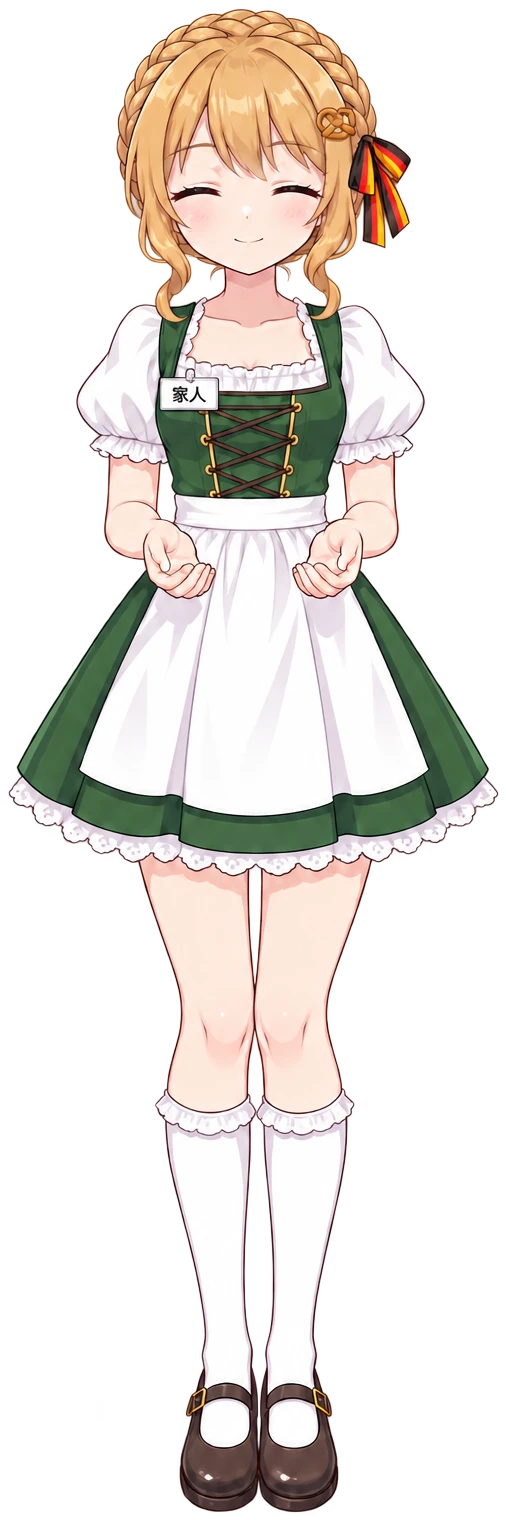
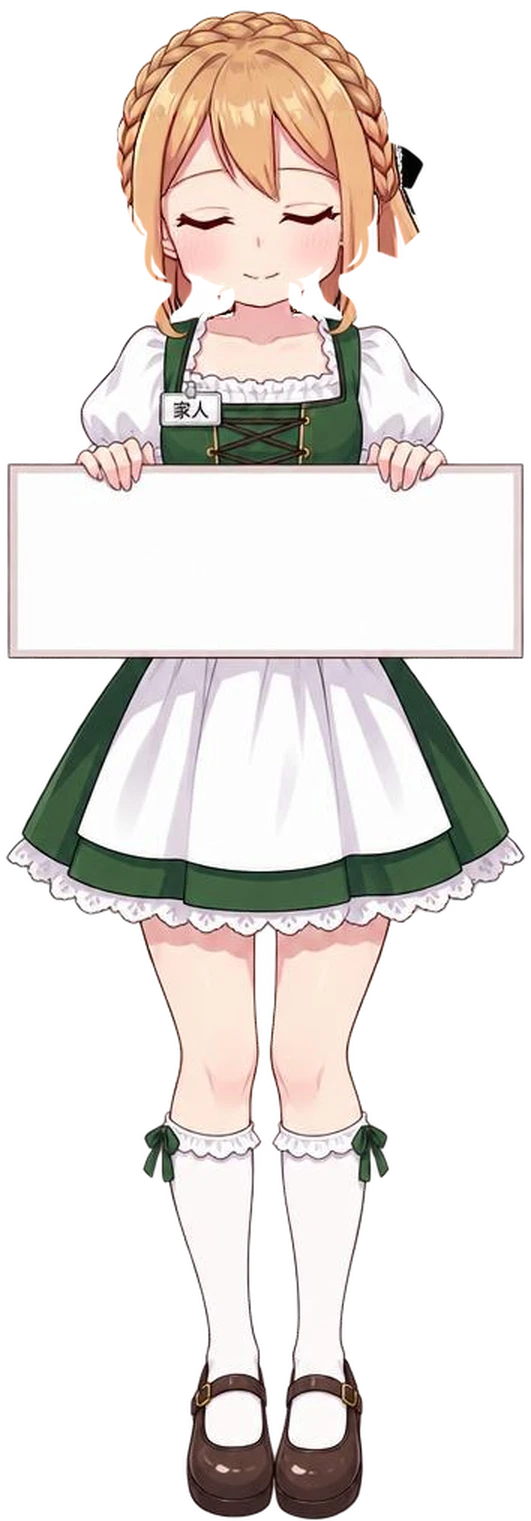
二次元皮肤：牌子画进立绘（回到贴图），节点名印在牌面上
上一版的节点名挂在一条 UI 画的卷轴纸带上（62px 高、通铺整卡），复核判定读不成
「拿在手里」：实测她的双手只有 102px 宽，纸带是手的 3.5 倍宽、2 倍厚，观感是横贴
在腰上的一根纸。Live2D 预研（编辑器只有 Win/macOS、素材要拆 200+ 层、四套模型
128MB 显存）代价过大，用户定「回到贴图」。

- 立绘换成「她双手捧着空白牌子」那版，牌子是画在贴图里的：节点名只是印在牌面上的字
- 牌面矩形逐台实测（--cast-plate-l/t/w/h）+ 立绘在卡上的宽（--cast-art-w）
- 摊开态裁在牌子下沿（--cast-cut）；--cast-hand 与 .anime-hands 整层删掉
- 闭眼帧改用带蒙版的 inpaint（flux-pro/v1/fill）：gpt-image edit 会整帧重画，
  四台全对不齐（差异 117-166%）；蒙版内补后差异 5-9% 且只在眼睛那一段
- anime_cast_test 守牌面矩形每台一条 + 不许再出现纸面背景；ui-smoke 六处断言重写

diff --git a/web/anime.css b/web/anime.css
@@ -576,11 +576,14 @@ html[data-skin="anime"][data-theme="dark"] ::-webkit-scrollbar-thumb {
    app.js 只为「有 cast 的节点」渲染 <div class="anime-stage" data-cast="…">，
    其余皮肤下它保持 styles.css 里的 display:none。
 
-   立绘是 GPT Image 2.5 出的**透明底全身像**（人物 + 透明背景，没有那块牌子），
+   立绘是 GPT Image 2.5 出的**透明底全身像，手里捧着一块空白牌子**（2026-10-09 起）。
    按高度缩放成 --cast-figure-h（720px）、顶部对齐。于是：
-   - 展开时立绘层只露出「头顶 → 她两只手停的那一行」——牌子就是卡片自己，数据写在牌面上；
-   - 卷起来时立绘层放到 720px 全身（见 N+3），她整个人都在卡上，卷轴压在她手那条线上。
-   透明底是关键：她没有矩形图框，卡片自己的底色 / 纹样就是她的背景，这才谈得上「融入」。
+   - 展开时立绘层只露出「头顶 → 那块牌子的下沿」（--cast-cut），牌面下方直接接数据面板；
+   - 卷起来时立绘层放到 720px 全身（见 N+3），她整个人都在卡上，节点名**印在她手里那块牌子上**
+     （牌面位置逐台实测，见 --cast-plate-*）。
+   牌子画进图里是关键：卷轴那条 UI 纸带曾经横贴在她腰上（356px 的纸带 vs 102px 的双手），
+   怎么调都读不成「拿在手里」；换成贴图里她自己捧着，就不需要再骗眼睛。
+   透明底同样关键：她没有矩形图框，卡片自己的底色 / 纹样就是她的背景，这才谈得上「融入」。
    -------------------------------------------------------------------------- */
 html[data-skin="anime"] .anime-stage {
   display: block;
@@ -590,7 +593,8 @@ html[data-skin="anime"] .anime-stage {
   z-index: 1;
   /* 卡片自己有 22px 内边距，立绘层要通铺到卡片边（圆角交给卡片的 overflow:hidden 裁） */
   margin: -22px -22px 16px;
-  height: calc(var(--cast-figure-h, 720px) * var(--cast-hand, 0.56));
+  /* 摊开时只露「头顶 → 她手里那块牌子的下沿」：再往下就是卡片自己的数据面板 */
+  height: calc(var(--cast-figure-h, 720px) * var(--cast-cut, 0.44));
   overflow: hidden;   /* 展开时把「手以下」那半身裁掉；眨眼层也是靠这个裁（它是全高） */
   background-image: var(--cast-art-url);
   background-repeat: no-repeat;
@@ -683,9 +687,14 @@ html[data-skin="anime"] .node-card[data-cast] {
 html[data-skin="anime"] .node-card[data-cast="jp-nosla-gen2"] {
   --cast-art-url: url("/anime/jp-nosla-gen2.webp");   /* 立绘与「下半身」共用同一张图 */
   --cast-figure-h: 720px;   /* 全身立绘按高度缩放：她的头到脚 = 720px，卡片宽 358，所以两侧留白是她自己「漂」在卡上的 */
-  --cast-hand: 0.42;   /* 她的手停在这一行（逐年对照定相截图挑出来的）*/
-  --cast-eye-top: 9.9%;
-  --cast-eye-bottom: 18.8%;
+  --cast-art-w: calc(var(--cast-figure-h, 720px) * 0.3824);   /* 立绘在卡上的宽度 = 高度 × 图宽高比 */
+  --cast-plate-l: 0.018;   /* 她手里那块牌子在立绘框里的位置（逐台实测：像素扫描 + 目视复核） */
+  --cast-plate-t: 0.318;
+  --cast-plate-w: 0.967;
+  --cast-plate-h: 0.122;
+  --cast-cut: 0.439;   /* 摊开时立绘露到牌子的下沿，再往下就是数据面板 */
+  --cast-eye-top: 6.4%;
+  --cast-eye-bottom: 22.6%;
   --cast-board: #ffe7f1;
   --cast-cell: rgb(255 255 255 / 0.58);
   --cast-line: #f6b1cc;
@@ -704,9 +713,14 @@ html[data-skin="anime"] .node-card[data-cast="jp-nosla-gen2"] {
 html[data-skin="anime"] .node-card[data-cast="de-nosla-fra"] {
   --cast-art-url: url("/anime/de-nosla-fra.webp");   /* 立绘与「下半身」共用同一张图 */
   --cast-figure-h: 720px;   /* 全身立绘按高度缩放：她的头到脚 = 720px，卡片宽 358，所以两侧留白是她自己「漂」在卡上的 */
-  --cast-hand: 0.41;   /* 她的手停在这一行（逐年对照定相截图挑出来的）*/
-  --cast-eye-top: 8.2%;
-  --cast-eye-bottom: 17.1%;
+  --cast-art-w: calc(var(--cast-figure-h, 720px) * 0.3491);   /* 立绘在卡上的宽度 = 高度 × 图宽高比 */
+  --cast-plate-l: 0.02;   /* 她手里那块牌子在立绘框里的位置（逐台实测：像素扫描 + 目视复核） */
+  --cast-plate-t: 0.321;
+  --cast-plate-w: 0.96;
+  --cast-plate-h: 0.107;
+  --cast-cut: 0.428;   /* 摊开时立绘露到牌子的下沿，再往下就是数据面板 */
+  --cast-eye-top: 6.6%;
+  --cast-eye-bottom: 22.8%;
   --cast-board: #fff5e0;
   --cast-cell: rgb(255 255 255 / 0.56);
   --cast-line: #e7cd90;
@@ -725,9 +739,14 @@ html[data-skin="anime"] .node-card[data-cast="de-nosla-fra"] {
 html[data-skin="anime"] .node-card[data-cast="us-vmiss-tri"] {
   --cast-art-url: url("/anime/us-vmiss-tri.webp");   /* 立绘与「下半身」共用同一张图 */
   --cast-figure-h: 720px;   /* 全身立绘按高度缩放：她的头到脚 = 720px，卡片宽 358，所以两侧留白是她自己「漂」在卡上的 */
-  --cast-hand: 0.40;   /* 她的手停在这一行（逐年对照定相截图挑出来的）*/
-  --cast-eye-top: 7.2%;
-  --cast-eye-bottom: 16.2%;
+  --cast-art-w: calc(var(--cast-figure-h, 720px) * 0.3621);   /* 立绘在卡上的宽度 = 高度 × 图宽高比 */
+  --cast-plate-l: 0.041;   /* 她手里那块牌子在立绘框里的位置（逐台实测：像素扫描 + 目视复核） */
+  --cast-plate-t: 0.307;
+  --cast-plate-w: 0.94;
+  --cast-plate-h: 0.134;
+  --cast-cut: 0.44;   /* 摊开时立绘露到牌子的下沿，再往下就是数据面板 */
+  --cast-eye-top: 6.6%;
+  --cast-eye-bottom: 23.0%;
   --cast-board: #e9f2ff;
   --cast-cell: rgb(255 255 255 / 0.58);
   --cast-line: #aec9ff;
@@ -746,9 +765,14 @@ html[data-skin="anime"] .node-card[data-cast="us-vmiss-tri"] {
 html[data-skin="anime"] .node-card[data-cast="us-bwh-dc9"] {
   --cast-art-url: url("/anime/us-bwh-dc9.webp");   /* 立绘与「下半身」共用同一张图 */
   --cast-figure-h: 720px;   /* 全身立绘按高度缩放：她的头到脚 = 720px，卡片宽 358，所以两侧留白是她自己「漂」在卡上的 */
-  --cast-hand: 0.39;   /* 她的手停在这一行（逐年对照定相截图挑出来的）*/
-  --cast-eye-top: 23.1%;
-  --cast-eye-bottom: 32%;
+  --cast-art-w: calc(var(--cast-figure-h, 720px) * 0.3555);   /* 立绘在卡上的宽度 = 高度 × 图宽高比 */
+  --cast-plate-l: 0.016;   /* 她手里那块牌子（画在贴图里的）在立绘框里的位置，逐台实测 */
+  --cast-plate-t: 0.319;
+  --cast-plate-w: 0.967;
+  --cast-plate-h: 0.112;
+  --cast-cut: 0.432;   /* 摊开时立绘露到牌子的下沿，再往下就是数据面板 */
+  --cast-eye-top: 6.2%;
+  --cast-eye-bottom: 22.3%;
   --cast-board: #fff3dc;
   --cast-cell: rgb(255 255 255 / 0.56);
   --cast-line: #e9c684;
@@ -824,7 +848,7 @@ html[data-skin="anime"][data-theme="dark"] .anime-stage[data-cast="us-bwh-dc9"] 
 
    - 收起状态是**卡壳**上的 data-rolled（app.js 的 applyFolded 维护），不是重绘出来的内容：
      每秒轻刷新与 10 秒全量刷新都走补丁路径、卡壳上的属性不会被擦掉，所以卷起来之后不会自己摊开。
-   - 展开：立绘层 = 头顶 → 她的手那一行（--cast-hand），下面接数据面板（面板上沿就是她手那条线）。
+   - 展开：立绘层 = 头顶 → 她手里那块牌子的下沿（--cast-cut），下面接数据面板。
    - 收起：立绘层放到 --cast-figure-h 全身，**卷轴**绝对定位压在她手那条线上（一根她拿着的卷），
      数据整块藏起来。卷轴的 z-index 比立绘**高**：轴心正对着她的躯干，压在下面的话节点名会被她
      整个挡住（线上实测轴上只剩空白），「轴上印节点名」就没了。卷轴比她的身子窄（卡宽的 62%），两端是纸卷的收口 —— 一根拿在手里的卷，
@@ -878,68 +902,34 @@ html[data-skin="anime"] .anime-blink {
 /* 摊开时卷轴不出现 */
 html[data-skin="anime"] .anime-roll { display: none; }
 
-/* 卷轴本体：她手里那根卷。绝对定位压在手线上、通铺整卡，两端被卡片裁掉。 */
-html[data-skin="anime"] .anime-roll {
-  position: absolute; left: 0; right: 0; z-index: 2;
-  top: calc(var(--cast-figure-h, 720px) * var(--cast-hand, 0.45) - 8px);
-  width: auto; height: 62px; padding: 0; border: 0;
-  /* 通铺到卡片的边框内侧（绝对定位的包含块就是卡片的 padding box）：两端被卡片的
-     overflow:hidden 裁掉——卷纸**没有端面**，所以不会出现「假盖子 / 假圆盘」那一版的问题。
-     这里不能再加负 margin：越过卡片边框盒就会被 scripts/card-overflow-check.mjs 判成真被切掉。 */
-  display: flex; align-items: center; justify-content: center;
+/* 牌子那一层（收起态）：牌子本身是**画在立绘贴图里的**（她双手捧着），
+   所以这一层只剩「印在牌面上的字」，没有任何纸带、阴影、卷边。
+   铺满整卡靠 -22px 抵消卡片内边距，跟 .anime-stage 的负 margin 对齐；牌子上的字再按
+   每台实测的牌面矩形（--cast-plate-*）落到她那块牌子上。 */
+html[data-skin="anime"] .node-card[data-rolled="true"] .anime-roll {
+  position: absolute; left: -22px; right: -22px; top: -22px;
+  height: var(--cast-figure-h, 720px);
+  z-index: 2; padding: 0; border: 0; background: none;
   opacity: var(--anime-roll-alpha, 1);
-  cursor: pointer; color: color-mix(in srgb, var(--cast-accent) 62%, #2a2733); background: none;
+  cursor: pointer; color: color-mix(in srgb, var(--cast-accent) 58%, #2a2733);
 }
-html[data-skin="anime"] .anime-roll-label {
-  /* 名字压在轴的**下半条**：她的手（.anime-hands 那层）盖在轴的上半条上，
-     名字留在下面才不会被她的手挡住（居中就会被她的手整块盖掉）。 */
-  position: relative; flex: 1 1 auto; min-width: 0; height: 62px; padding-bottom: 9px;
-  display: inline-flex; align-items: flex-end; justify-content: center; gap: 8px;
-  background-image:
-    repeating-linear-gradient(100deg, rgb(86 74 48 / 0.055) 0 1.3px, transparent 1.3px 21px),
-    radial-gradient(22% 200% at 0% 50%, rgb(74 64 44 / 0.4), transparent 100%),
-    radial-gradient(22% 200% at 100% 50%, rgb(74 64 44 / 0.4), transparent 100%),
-    linear-gradient(
-      180deg,
-      #c9c3b5 0%,
-      #e9e4d8 7%,
-      #fdfbf5 20%,
-      #fffefa 34%,
-      #faf7ee 52%,
-      #f3efe4 68%,
-      #e9e4d8 86%,
-      #d8d2c4 96%,
-      #c9c3b5 100%
-    );
-  box-shadow: inset 0 5px 7px -4px rgb(28 24 42 / 0.5), inset 0 -6px 8px -4px rgb(28 24 42 / 0.4),
-    inset 0 -2px 0 -1px rgb(255 255 255 / 0.5), 0 2px 6px rgb(28 24 42 / 0.22);
-}
-/* 她的手压在纸上的投影 */
-html[data-skin="anime"] .anime-roll-label::before {
-  content: ""; position: absolute; inset: 0; pointer-events: none;
-  background-image:
-    radial-gradient(26% 130% at 26% 0%, rgb(40 32 60 / 0.30), transparent 76%),
-    radial-gradient(26% 130% at 74% 0%, rgb(40 32 60 / 0.30), transparent 76%);
-}
-/* 卷边：纸身靠上那道「卷起来的边」——上面一条亮线、下面一条压痕 */
-html[data-skin="anime"] .anime-roll-label::after {
-  content: ""; position: absolute; inset: 0; pointer-events: none; opacity: 0.75;
-  background-image: linear-gradient(
-    180deg,
-    transparent 0 15%,
-    rgb(255 255 255 / 0.75) 17%,
-    rgb(255 255 255 / 0.9) 19%,
-    rgb(46 40 64 / 0.20) 21%,
-    rgb(46 40 64 / 0.10) 24%,
-    transparent 27% 100%
-  );
+html[data-skin="anime"] .node-card[data-rolled="true"] .anime-roll-label {
+  /* 落点 = 她手里那块牌子：立绘居中摆（background-position: top center），
+     所以牌子的横坐标 = (层宽 - 立绘宽)/2 + 牌面左 × 立绘宽 */
+  position: absolute;
+  left: calc((100% - var(--cast-art-w, 270px)) / 2 + var(--cast-plate-l, 0.02) * var(--cast-art-w, 270px));
+  top: calc(var(--cast-figure-h, 720px) * var(--cast-plate-t, 0.32));
+  width: calc(var(--cast-plate-w, 0.96) * var(--cast-art-w, 270px));
+  height: calc(var(--cast-figure-h, 720px) * var(--cast-plate-h, 0.12));
+  display: flex; align-items: center; justify-content: center; gap: 7px;
+  min-width: 0;
 }
 html[data-skin="anime"] .anime-roll-name {
-  position: relative; z-index: 1;
-  font-size: 13px; font-weight: 800; letter-spacing: 0.03em;
+  position: relative; z-index: 1; min-width: 0;
+  font-size: 15px; font-weight: 800; letter-spacing: 0.02em;
+  /* 牌面是白的（夜版被亮度滤镜压到浅灰），所以直接写墨色，不用再描白边 */
+  color: color-mix(in srgb, var(--cast-accent) 32%, #38313f);
   white-space: nowrap; overflow: hidden; text-overflow: ellipsis;
-  /* 只留一圈贴边白晕：大范围发光的版本在手机上把字糊成一团（复核说像「重影」）。 */
-  text-shadow: 0 1px 0 rgb(255 255 255 / 0.9), 0 0 1px rgb(255 255 255 / 0.7);
 }
 html[data-skin="anime"] .anime-roll-dot { flex: 0 0 auto; }
 
@@ -977,41 +967,17 @@ html[data-skin="anime"] .skin-tune input[type="range"]::-moz-range-thumb {
   background: #ffffff; border: 1.5px solid var(--anime-accent, #e8457c);
 }
 
-/* 收起态专用：她手那一条压在卷轴上面（见 app.js 里 .anime-hands 的说明）。
-   盒子和闭眼层一样取整张立绘的高，蒙版的百分比才按立绘坐标算；
-   上下各留 3% 实心、再各 2% 羽化，正好盖住 48px 的卷轴。 */
-html[data-skin="anime"] .anime-hands { display: none; }
-html[data-skin="anime"] .node-card[data-rolled="true"] .anime-hands {
-  display: block;
-  position: absolute; left: 0; right: 0; top: 0; z-index: 3;
-  height: var(--cast-figure-h, 720px);
-  pointer-events: none;
-  background-image: var(--cast-art-url);
-  background-repeat: no-repeat; background-position: top center;
-  background-size: auto var(--cast-figure-h, 720px);
-  -webkit-mask-image: linear-gradient(
-    180deg,
-    transparent 0 calc((var(--cast-hand, 0.45) - 0.046) * 100%),
-    #000 calc((var(--cast-hand, 0.45) - 0.032) * 100%) calc((var(--cast-hand, 0.45) + 0.032) * 100%),
-    transparent calc((var(--cast-hand, 0.45) + 0.046) * 100%)
-  );
-  mask-image: linear-gradient(
-    180deg,
-    transparent 0 calc((var(--cast-hand, 0.45) - 0.046) * 100%),
-    #000 calc((var(--cast-hand, 0.45) - 0.032) * 100%) calc((var(--cast-hand, 0.45) + 0.032) * 100%),
-    transparent calc((var(--cast-hand, 0.45) + 0.046) * 100%)
-  );
-}
+
 
 /* 收起：立绘放全身、数据全收进卷轴，卡片底部不再留内边距（脚直接抵到卡边） */
 html[data-skin="anime"] .node-card[data-rolled="true"] { padding-bottom: 0; }
-html[data-skin="anime"] .node-card[data-rolled="true"] > *:not(.anime-stage):not(.anime-roll):not(.anime-hands) { display: none; }
+html[data-skin="anime"] .node-card[data-rolled="true"] > *:not(.anime-stage):not(.anime-roll) { display: none; }
 html[data-skin="anime"] .node-card[data-rolled="true"] .anime-stage {
   height: var(--cast-figure-h, 720px);
   margin-bottom: 0;
   border-image: none; border-bottom: 0;
 }
-html[data-skin="anime"] .node-card[data-rolled="true"] .anime-roll { display: flex; }
+html[data-skin="anime"] .node-card[data-rolled="true"] .anime-roll { display: block; }
 
 /* 裸眼 3D：指针在卡上时转一点，立绘和卷轴各自多走一点（层间差速） */
 html[data-skin="anime"] .node-card[data-cast].is-tilt {
@@ -1049,6 +1015,5 @@ html[data-skin="anime"] .anime-blink {
 @media (prefers-reduced-motion: no-preference) {
   /* 立绘和卷轴同一相位呼吸：她的手在动，卷轴要跟着她一起动 */
   html[data-skin="anime"] .anime-stage,
-  html[data-skin="anime"] .anime-hands,
   html[data-skin="anime"] .anime-roll { animation: anime-breathe 5.4s ease-in-out infinite; }
 }

diff --git a/web/app.js b/web/app.js
@@ -840,17 +840,14 @@ function gridInner(n) {
   // data-bleed = 通铺到卡片边框的装饰层：允许越过卡片内边距（被 overflow: hidden 裁掉是设计意图），
   // 但越过边框 Box 就还是越界——scripts/card-overflow-check.mjs 按这两个标记区分。
   const cast = castId(n);
-  // 卷轴两件（只有名单里的节点才渲染）：立绘右上角的「卷起」胶囊、收起后压在她手上那条线的卷轴条
-  // （印着节点名）。可见性全在 anime.css 里按卡壳上的 data-rolled 切，这里只负责摆出来。
+  // 折叠两件（只有名单里的节点才渲染）：立绘右上角的「卷起」胶囊、收起后印在她手里那块牌子上的名字。
+  // 牌子是**画进立绘里的贴图**（2026-10-09 起），所以这里只剩一层字，不再有 UI 画的纸带。
+  // 可见性全在 anime.css 里按卡壳上的 data-rolled 切，这里只负责摆出来。
   const fold = cast
     ? `<button class="anime-fold-btn" type="button" data-fold="${cast}" data-bleed aria-label="卷起卡片" aria-expanded="true">${FOLD_ICON}<span>卷起</span></button>` +
       `<button class="anime-roll" type="button" data-fold="${cast}" data-bleed aria-label="展开卡片" aria-expanded="true">` +
       `<span class="anime-roll-label" data-bleed><span class="node-dot anime-roll-dot ${n.online ? "" : "offline"}"></span><span class="anime-roll-name">${esc(n.name)}</span></span>` +
-      `</button>` +
-      // 收起态再叠一层「她手那一条」：卷轴压在她躯干上面（节点名才看得见），
-      // 但手要在卷轴**上面**——不然轴盖着她的手，看起来像一根贴上去的标签条而不是她拿着的卷。
-      // 图还是那一张立绘，只靠蒙版露出她手那一横条（跟闭眼层同一套做法）。
-      `<span class="anime-hands" data-bleed aria-hidden="true"></span>`
+      `</button>`
     : "";
   // 头部两行：第一行只有状态点 + 名字，右侧是发行版与架构胶囊；地区 / 分组与地址族开关落到第二行。
   // 以前地址族开关、系统、架构三样都挤在第一行，卡片窄时名字被挤成三行（手机上一张卡的头部 104px）。

diff --git a/web/styles.css b/web/styles.css
@@ -493,7 +493,6 @@ h1 {
 .anime-stage,
 .anime-roll,
 .anime-blink,
-.anime-hands,
 .anime-fold-btn {
   display: none;
 }

diff --git a/web/anime_cast_test.go b/web/anime_cast_test.go
@@ -61,18 +61,20 @@ func TestAnimeCastMatchesStylesheetAndAssets(t *testing.T) {
 			t.Errorf("人物图 web/anime/%s.webp 不存在: %v", id, err)
 		}
 	}
-	// 立绘是透明底全身像，三样几何量每台不同、少一条那台机的构图就会崩：
-	// --cast-hand 手停在哪一行（卷轴压在这条线上）、--cast-eye-top/bottom 眼睛带（眨眼层只在这里淡入）。
+	// 立绘是透明底全身像 + 手里那块牌子（牌子画在图里），每台的几何量不同、少一条那台机的构图就会崩：
+	// --cast-art-w 立绘在卡上的宽、--cast-plate-l/t/w/h 牌面在立绘框里的矩形（印节点名用）、
+	// --cast-cut 摊开时露到牌子的下沿、--cast-eye-top/bottom 眼睛带（眨眼层只在这里淡入）。
 	for _, m := range ids {
 		id := m[1]
-		for _, v := range []string{"--cast-figure-h:", "--cast-hand:", "--cast-eye-top:", "--cast-eye-bottom:"} {
+		for _, v := range []string{"--cast-figure-h:", "--cast-art-w:", "--cast-plate-l:", "--cast-plate-t:",
+			"--cast-plate-w:", "--cast-plate-h:", "--cast-cut:", "--cast-eye-top:", "--cast-eye-bottom:"} {
 			if !strings.Contains(string(css), v) {
 				t.Errorf("anime.css 里角色 %q 缺 %s（全身立绘的几何量）", id, v)
 			}
 		}
 	}
-	// 段首的「立绘层」规则必须按高度放全身像、并且裁在手上：background-size 用 auto + --cast-figure-h，
-	// 高度用 figure-h × --cast-hand。改回「按宽度铺满」= 她会被拉成满宽，两侧的留白和卷轴位置全错。
+	// 段首的「立绘层」规则必须按高度放全身像、并且裁在她手里那块牌子的下沿：background-size 用 auto + --cast-figure-h，
+	// 高度用 figure-h × --cast-cut。改回「按宽度铺满」= 她会被拉成满宽，两侧留白和牌面落点全错。
 	stage := regexp.MustCompile(`(?s)html\[data-skin="anime"\] \.anime-stage \{(.*?)\n\}`).FindStringSubmatch(string(css))
 	if stage == nil {
 		t.Fatal("anime.css 里找不到 .anime-stage 的规则")
@@ -80,7 +82,7 @@ func TestAnimeCastMatchesStylesheetAndAssets(t *testing.T) {
 		body := stage[1]
 		for _, want := range []string{
 			"background-size: auto var(--cast-figure-h, 720px);",
-			"height: calc(var(--cast-figure-h, 720px) * var(--cast-hand, 0.56));",
+			"height: calc(var(--cast-figure-h, 720px) * var(--cast-cut, 0.44));",
 			"overflow: hidden;",
 		} {
 			if !strings.Contains(body, want) {
@@ -100,6 +102,16 @@ func TestAnimeCastMatchesStylesheetAndAssets(t *testing.T) {
 	}
 	if got, want := strings.Count(string(css), "--cast-blink-dur:"), len(ids); got != want {
 		t.Errorf("--cast-blink-dur 要 %d 条（四个人得错开眨眼，不然四张卡同时眨），现在是 %d 条", want, got)
+	}
+	// 牌面矩形：每台一条，印名字的位置就是靠它算的，少一台那张卡的名字就会印到牌子外面。
+	for _, v := range []string{"--cast-plate-l:", "--cast-plate-t:", "--cast-plate-w:", "--cast-plate-h:", "--cast-cut:"} {
+		if got, want := strings.Count(string(css), v), len(ids); got != want {
+			t.Errorf("%s 要 %d 条（每台一条：牌面逐台实测），现在是 %d 条", v, want, got)
+		}
+	}
+	// 牌子上只有「字」：卷轴纸带（渐变纸面 / 卷边伪元素）是上一版被否掉的做法，回来就直接红。
+	if strings.Contains(string(css), "卷边：纸身靠上那道") || regexp.MustCompile(`(?s)\.anime-roll-label \{[^}]*background-image:`).Match(css) {
+		t.Error("anime.css 的 .anime-roll-label 里又出现纸面背景了：名字应该直接印在她手里那块牌子上")
 	}
 	for _, m := range regexp.MustCompile(`data-cast="([a-z0-9-]+)"`).FindAllStringSubmatch(string(css), -1) {
 		if !strings.Contains(string(cast), `"`+m[1]+`":`) {
